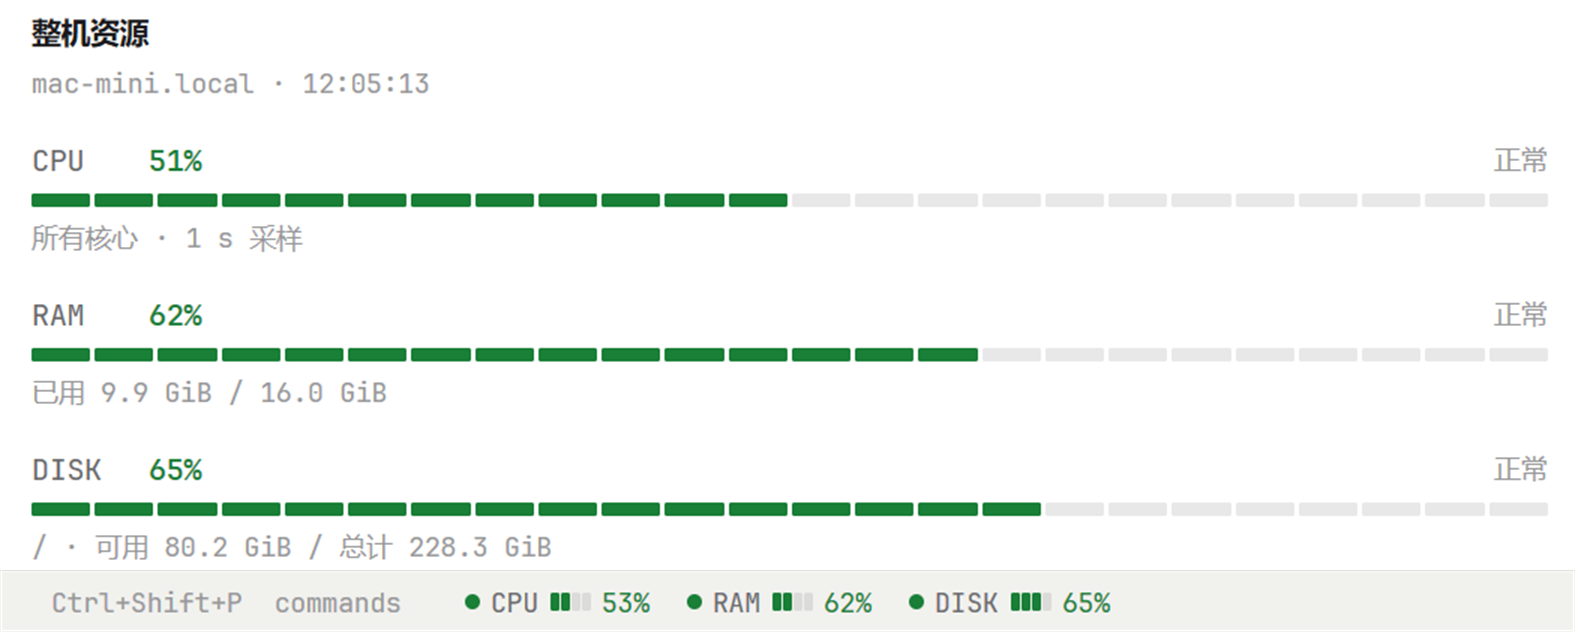
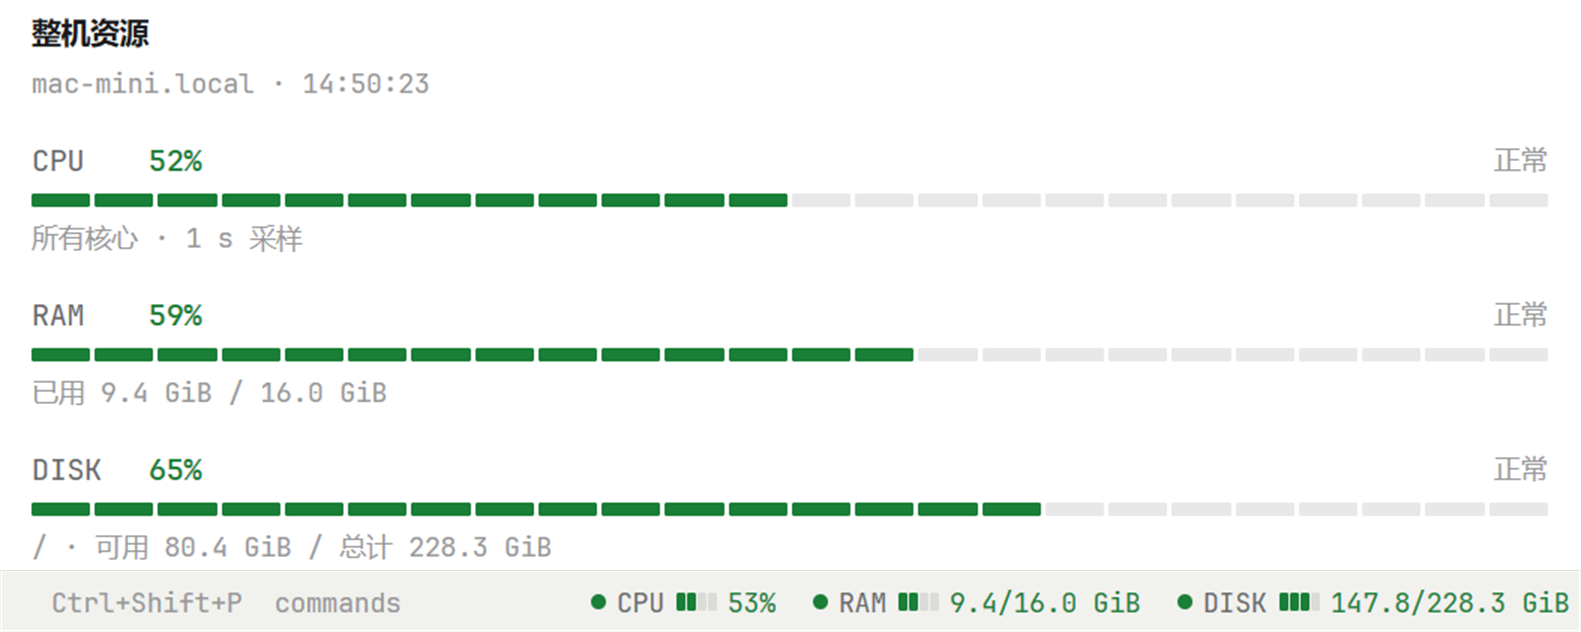
fix: right-align the strip's readings, and release from CI (#2)
The metrics were laid out from the left of their block, so a percentage-only
row left its slack between the last reading and the window edge, where the
status bar's own items end flush. justify_end() puts the gap on the left.

.github/workflows/release.yml publishes a v* tag: the checks run again, the
two mods are packed as herdr-system-stats-<version>.zip (sysstats/ and
sysstats-panel/ at the root, as the README says), and the release notes are
that version's section of CHANGELOG.md.

diff --git a/mods/sysstats/main.js b/mods/sysstats/main.js
@@ -332,11 +332,15 @@ export default class SysStats extends View {
       this.refresh(cx);
     }
     const sample = this.sample;
+    // Metrics hug the right edge, the way the status bar's own label and the
+    // palette hint do: a percentage-only strip is narrower than its block, and
+    // the gap belongs on the left, not between the last reading and the window.
     const strip = h_flex()
       .size_full()
       .px(14)
       .gap(16)
       .items_center()
+      .justify_end()
       .text_size(11.8)
       .bg(t.chrome)
       .border_t(1)

diff --git a/CHANGELOG.md b/CHANGELOG.md
@@ -9,6 +9,8 @@
 - On Windows, `disks` takes drive letters (`"C:"`, `"D:\"`), the default `"/"` means the system drive, and the panel labels it with the real letter.
 - The panel's CPU caption names the window its number covers: `250 ms 采样` on Linux, `1 s 采样` on macOS, `WMI 计数` on Windows.
 - Tests cover the shared scripts, the direct-percentage and byte-based samples, and run the sampler for real on Linux, macOS or Windows; the Windows script is asserted to carry no double quote, so `exec` never has to escape it.
+- Right-align the strip's readings: a percentage-only row left its slack between the last number and the window edge, where the status bar's own items (`Ctrl+Shift+P commands`) end flush.
+- Add `.github/workflows/release.yml`: pushing a `v*` tag runs the checks again, packs the two mods into `herdr-system-stats-<version>.zip` and publishes that release with this file's section for the version as notes.
 - Rewrite both READMEs around the three platforms: what each system is read through, how a reading is defined (macOS APFS container, Windows drives), a props table, and a troubleshooting section that says how to run the samplers by hand. Refresh `docs/app.png`.
 
 ## 2.0.0 - 2026-11-12

diff --git a/README.md b/README.md
@@ -192,7 +192,11 @@ herdr-app check mods/sysstats     # load and render once in the real app
 ```
 
 The tests run the POSIX sampler for real on Linux and macOS, and the PowerShell sampler on Windows;
-each is skipped where it does not apply. `gpui-kit.d.ts` is generated by the app for your editor and
+each is skipped where it does not apply.
+
+Publishing is the same commands in CI: push a `v<version>` tag and `.github/workflows/release.yml`
+re-runs the checks, packs `sysstats/` and `sysstats-panel/` into `herdr-system-stats-<version>.zip`
+and creates the release, with that version's section of `CHANGELOG.md` as its notes. `gpui-kit.d.ts` is generated by the app for your editor and
 is not committed.
 
 ## Uninstall

diff --git a/README.zh-CN.md b/README.zh-CN.md
@@ -181,6 +181,10 @@ herdr-app check mods/sysstats     # 在真 app 里加载并渲染一次
 ```
 
 测试会在 Linux / macOS 上真跑 POSIX 采样，在 Windows 上真跑 PowerShell 采样，不适用的平台跳过。
+
+发版也是同一套：推一个 `v<version>` tag，`.github/workflows/release.yml` 会重跑这些检查，把
+`sysstats/` 和 `sysstats-panel/` 打成 `herdr-system-stats-<version>.zip`，并用 `CHANGELOG.md` 里该
+版本那一节当 release notes 发出去。
 `gpui-kit.d.ts` 是 app 生成给编辑器用的，不入库。
 
 ## 卸载
